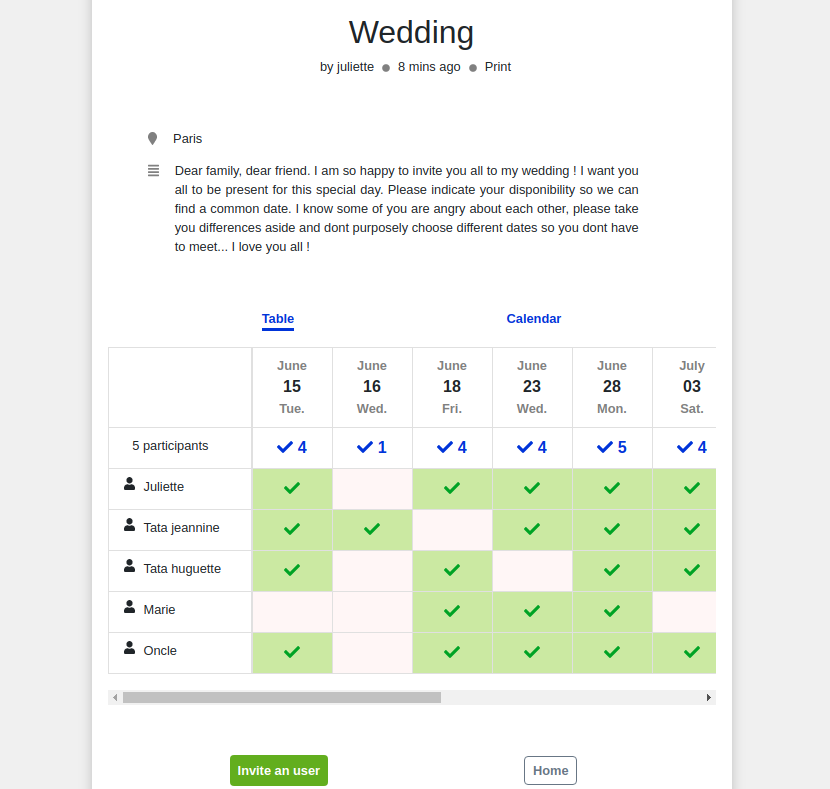
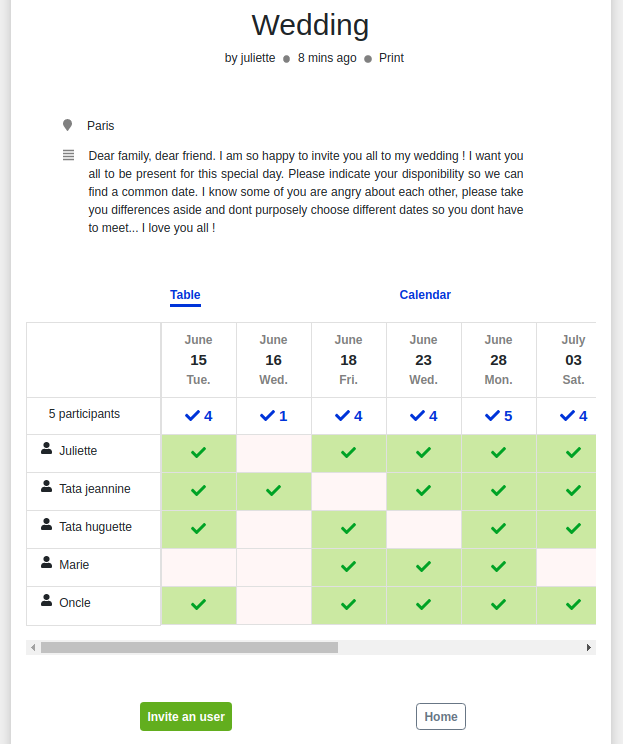
readme

diff --git a/README.md b/README.md
@@ -3,7 +3,12 @@
 
 Doodle clone in ruby on rails.
 
-![alt text](https://github.com/hbiom/cursed_doodles/blob/master/app/assets/images/readme.png)
+<!-- ![alt text](https://github.com/hbiom/cursed_doodles/blob/master/app/assets/images/readme.png)
+ -->
+<p align="center">
+  <img width="460" height="300" src=https://github.com/hbiom/cursed_doodles/blob/master/app/assets/images/readme.png>
+</p>
+
 
 You can create an event and create/invite virtual fake users. Disponibilities for each invited user
 will be automaticaly created but no common date for all user will be found.
